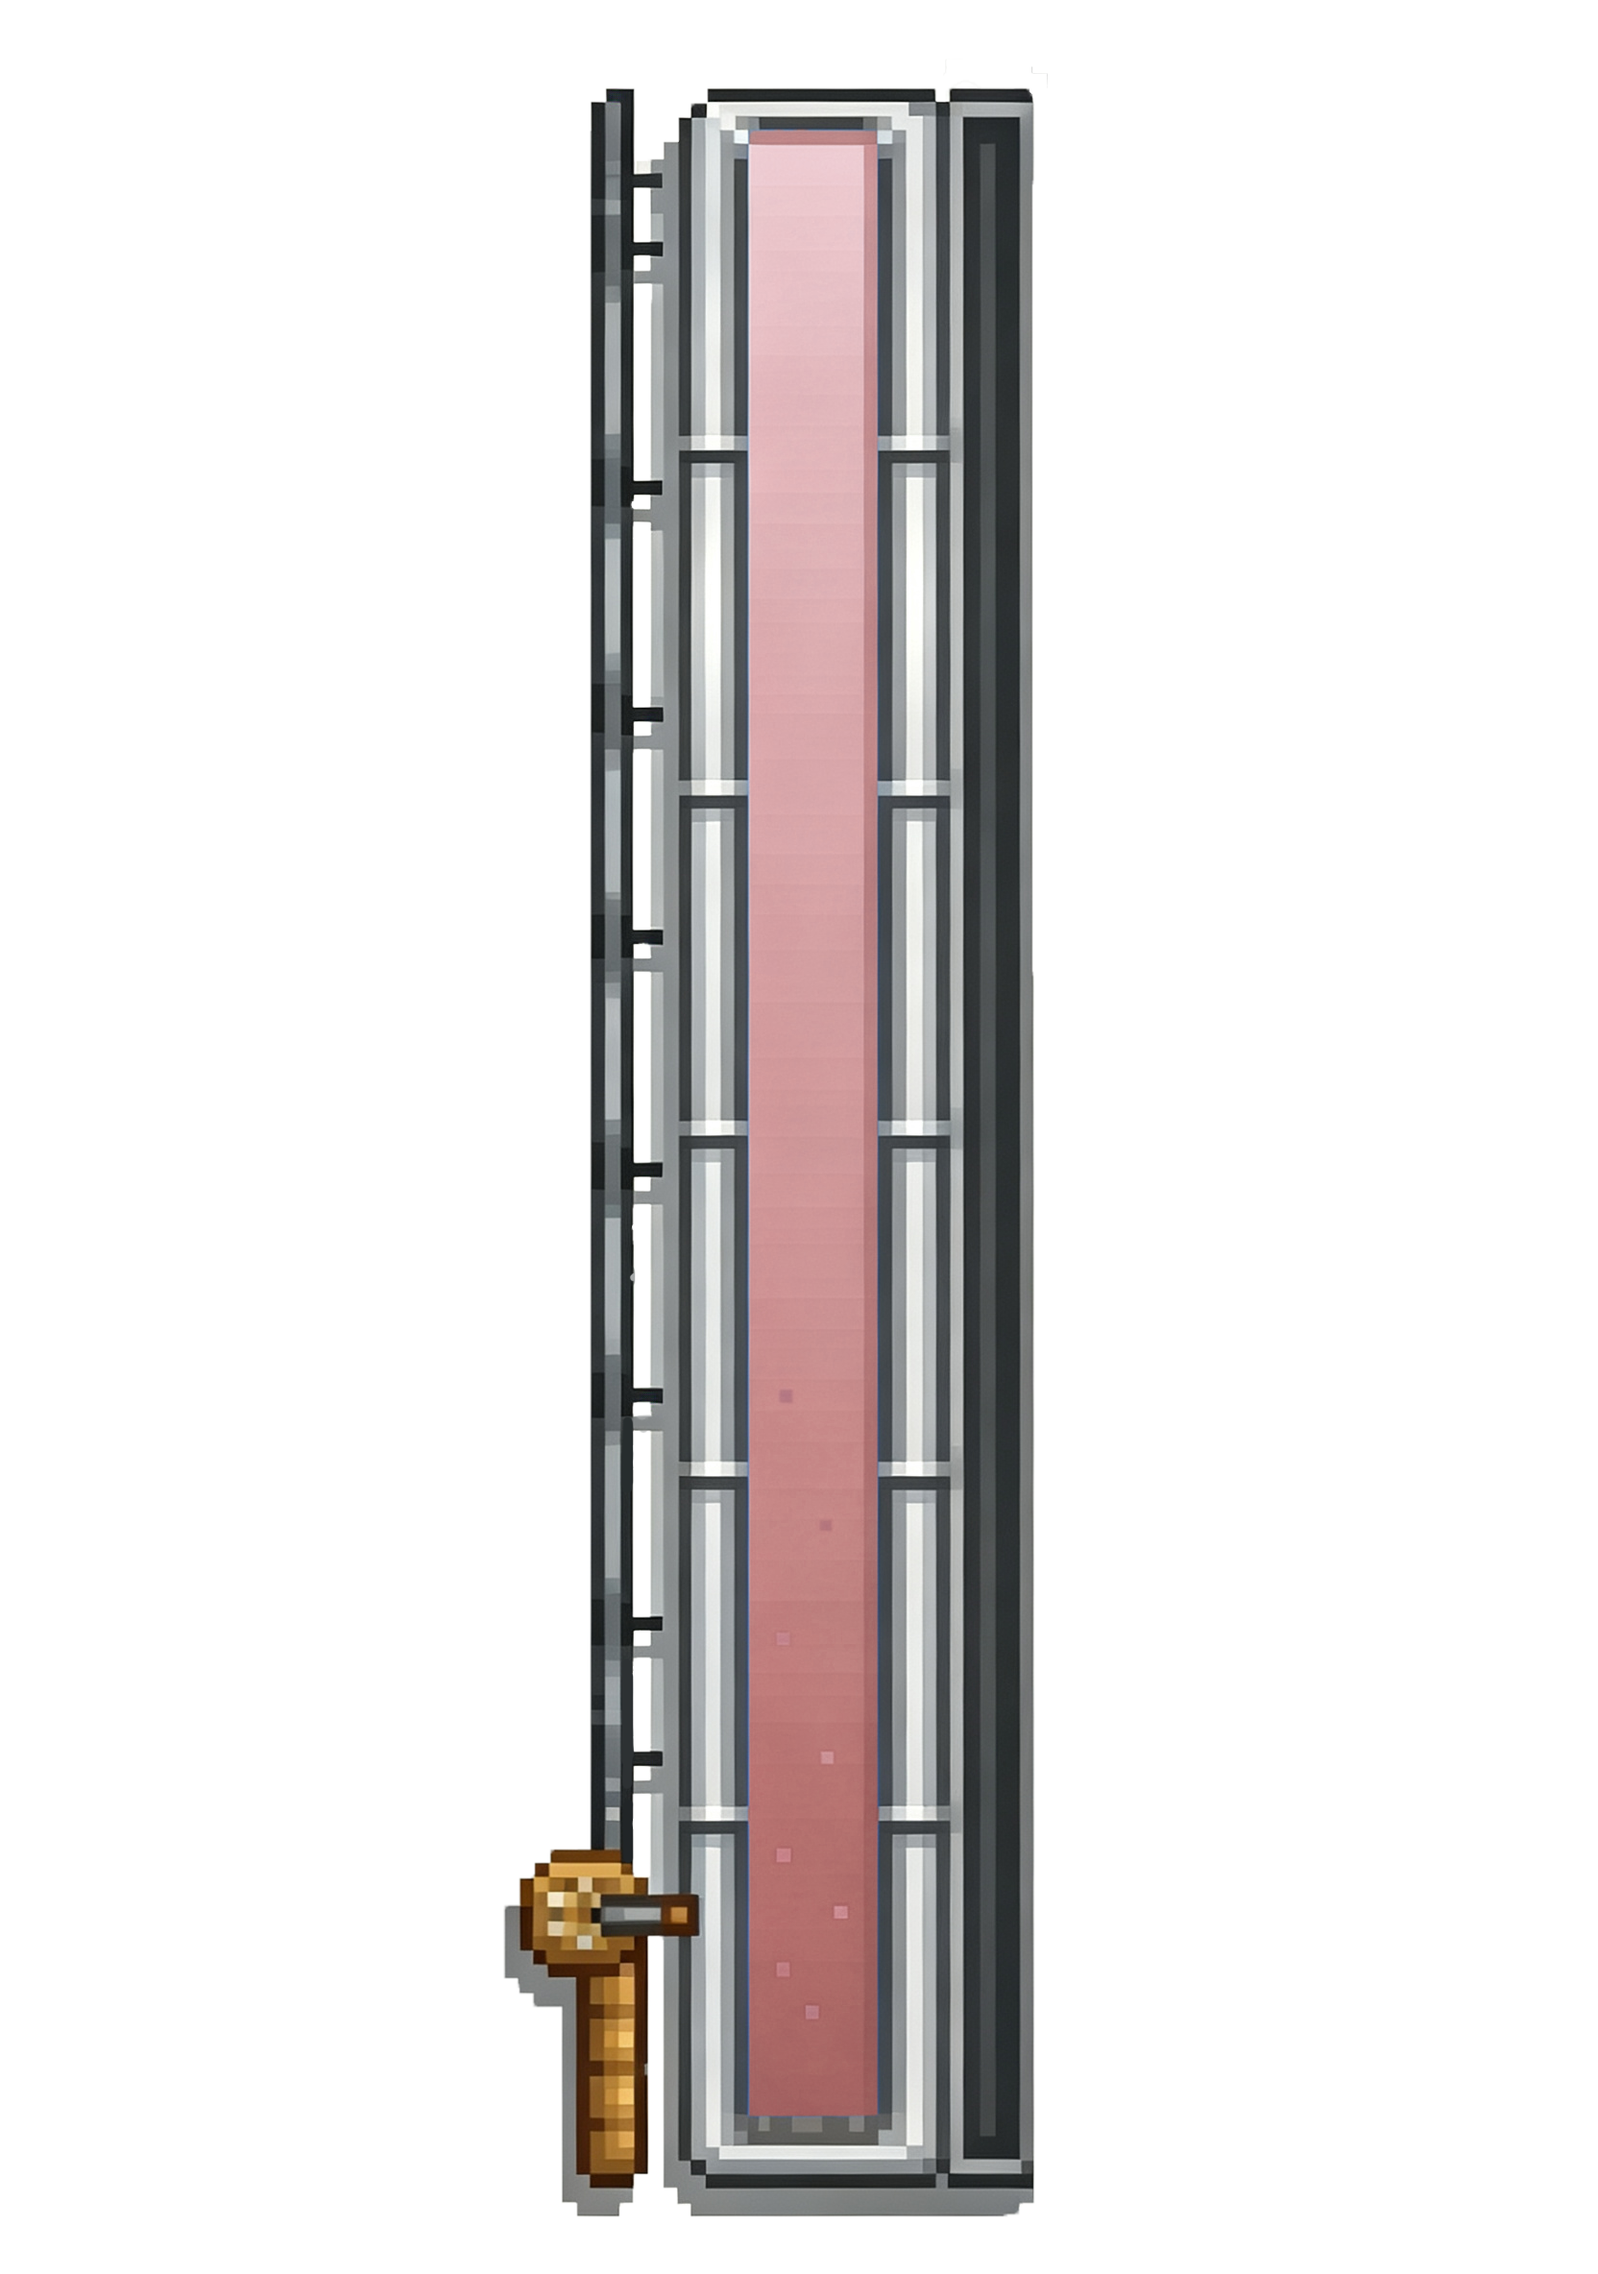
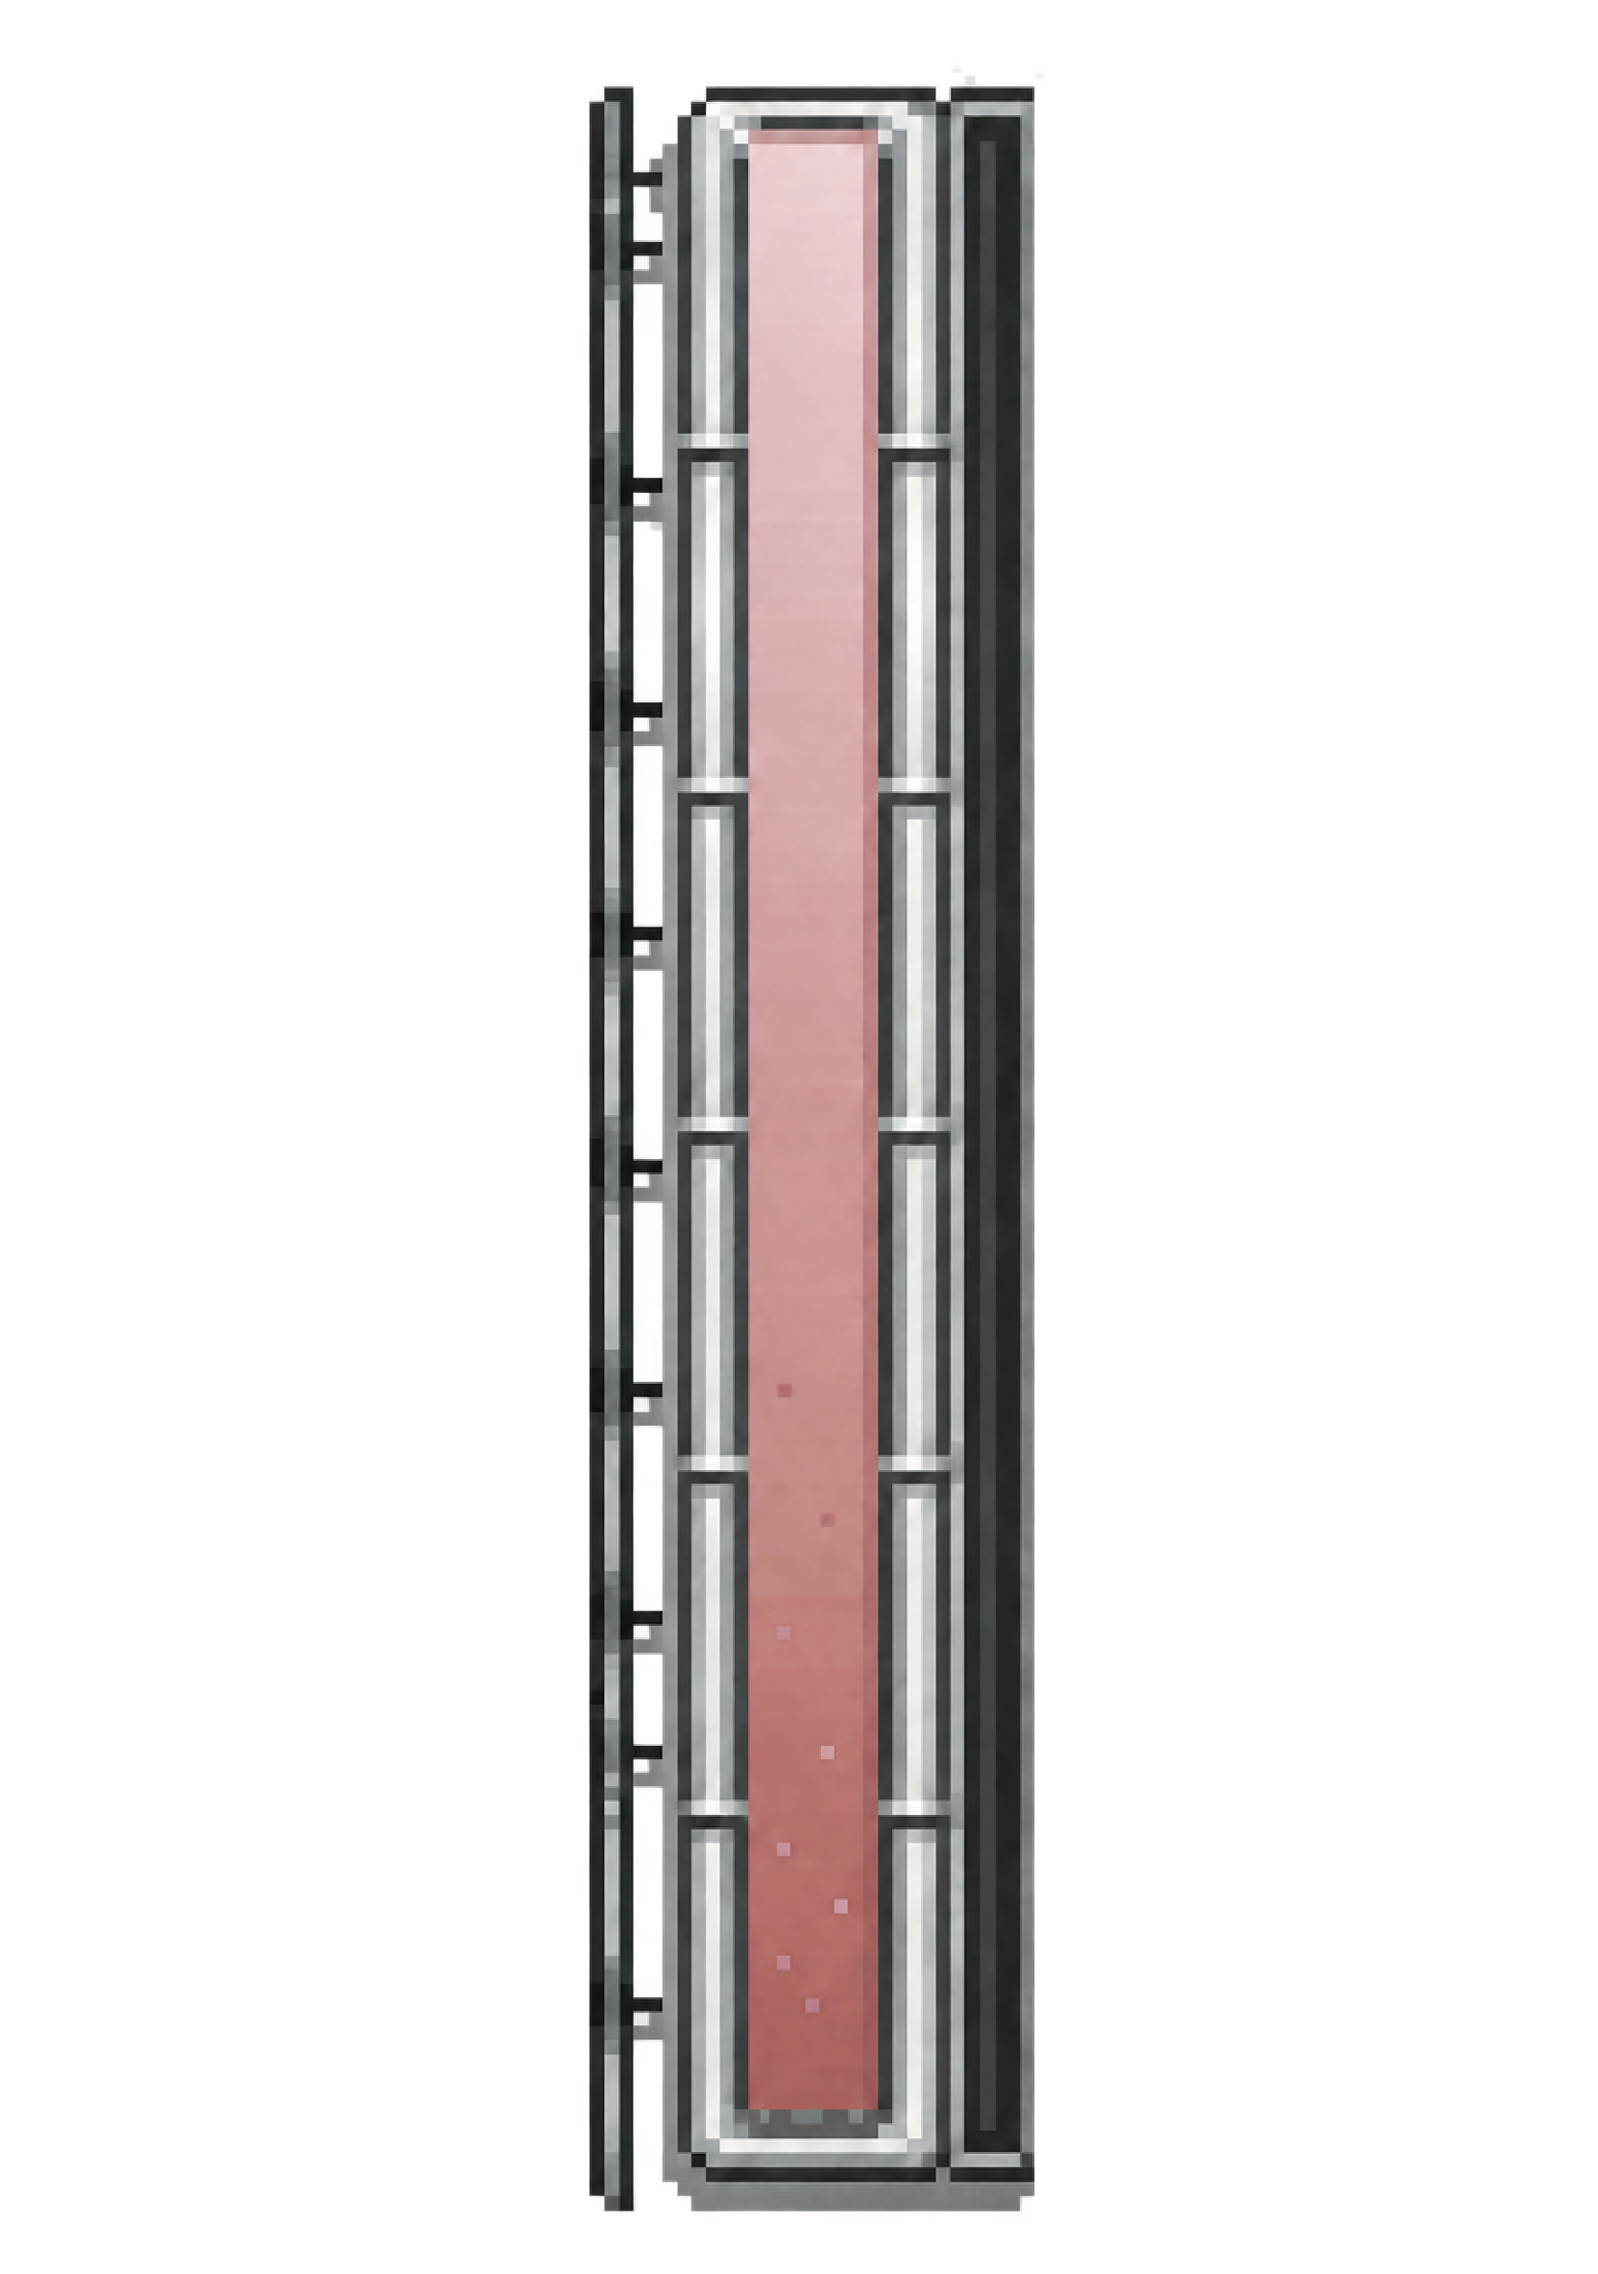
修复控制杆小游戏结算文字裁切

diff --git a/Game/styles/main.css b/Game/styles/main.css
@@ -2318,6 +2318,22 @@ body.home-op-active .home-page .auth-user-status {
   font-size: clamp(10px, .95vw, 13px);
 }
 
+/* 结算提示不能跟随窄轨道列收缩，否则长句会换行并被挤出可视区域。 */
+.mg-tug-caption {
+  width: max(100%, 170px);
+  min-height: 42px;
+  margin-inline: auto;
+  line-height: 1.35;
+  overflow: visible;
+}
+
+.mg-tug-caption strong {
+  white-space: nowrap;
+  line-height: 1.35;
+}
+
+.mg-tug-caption span { line-height: 1.35; }
+
 .mg-tug-status,
 .mg-tug-control {
   margin: 0;

diff --git a/Game/docs/asset-mapping.md b/Game/docs/asset-mapping.md
@@ -160,7 +160,7 @@
[8 lines of base64/hex data omitted]
